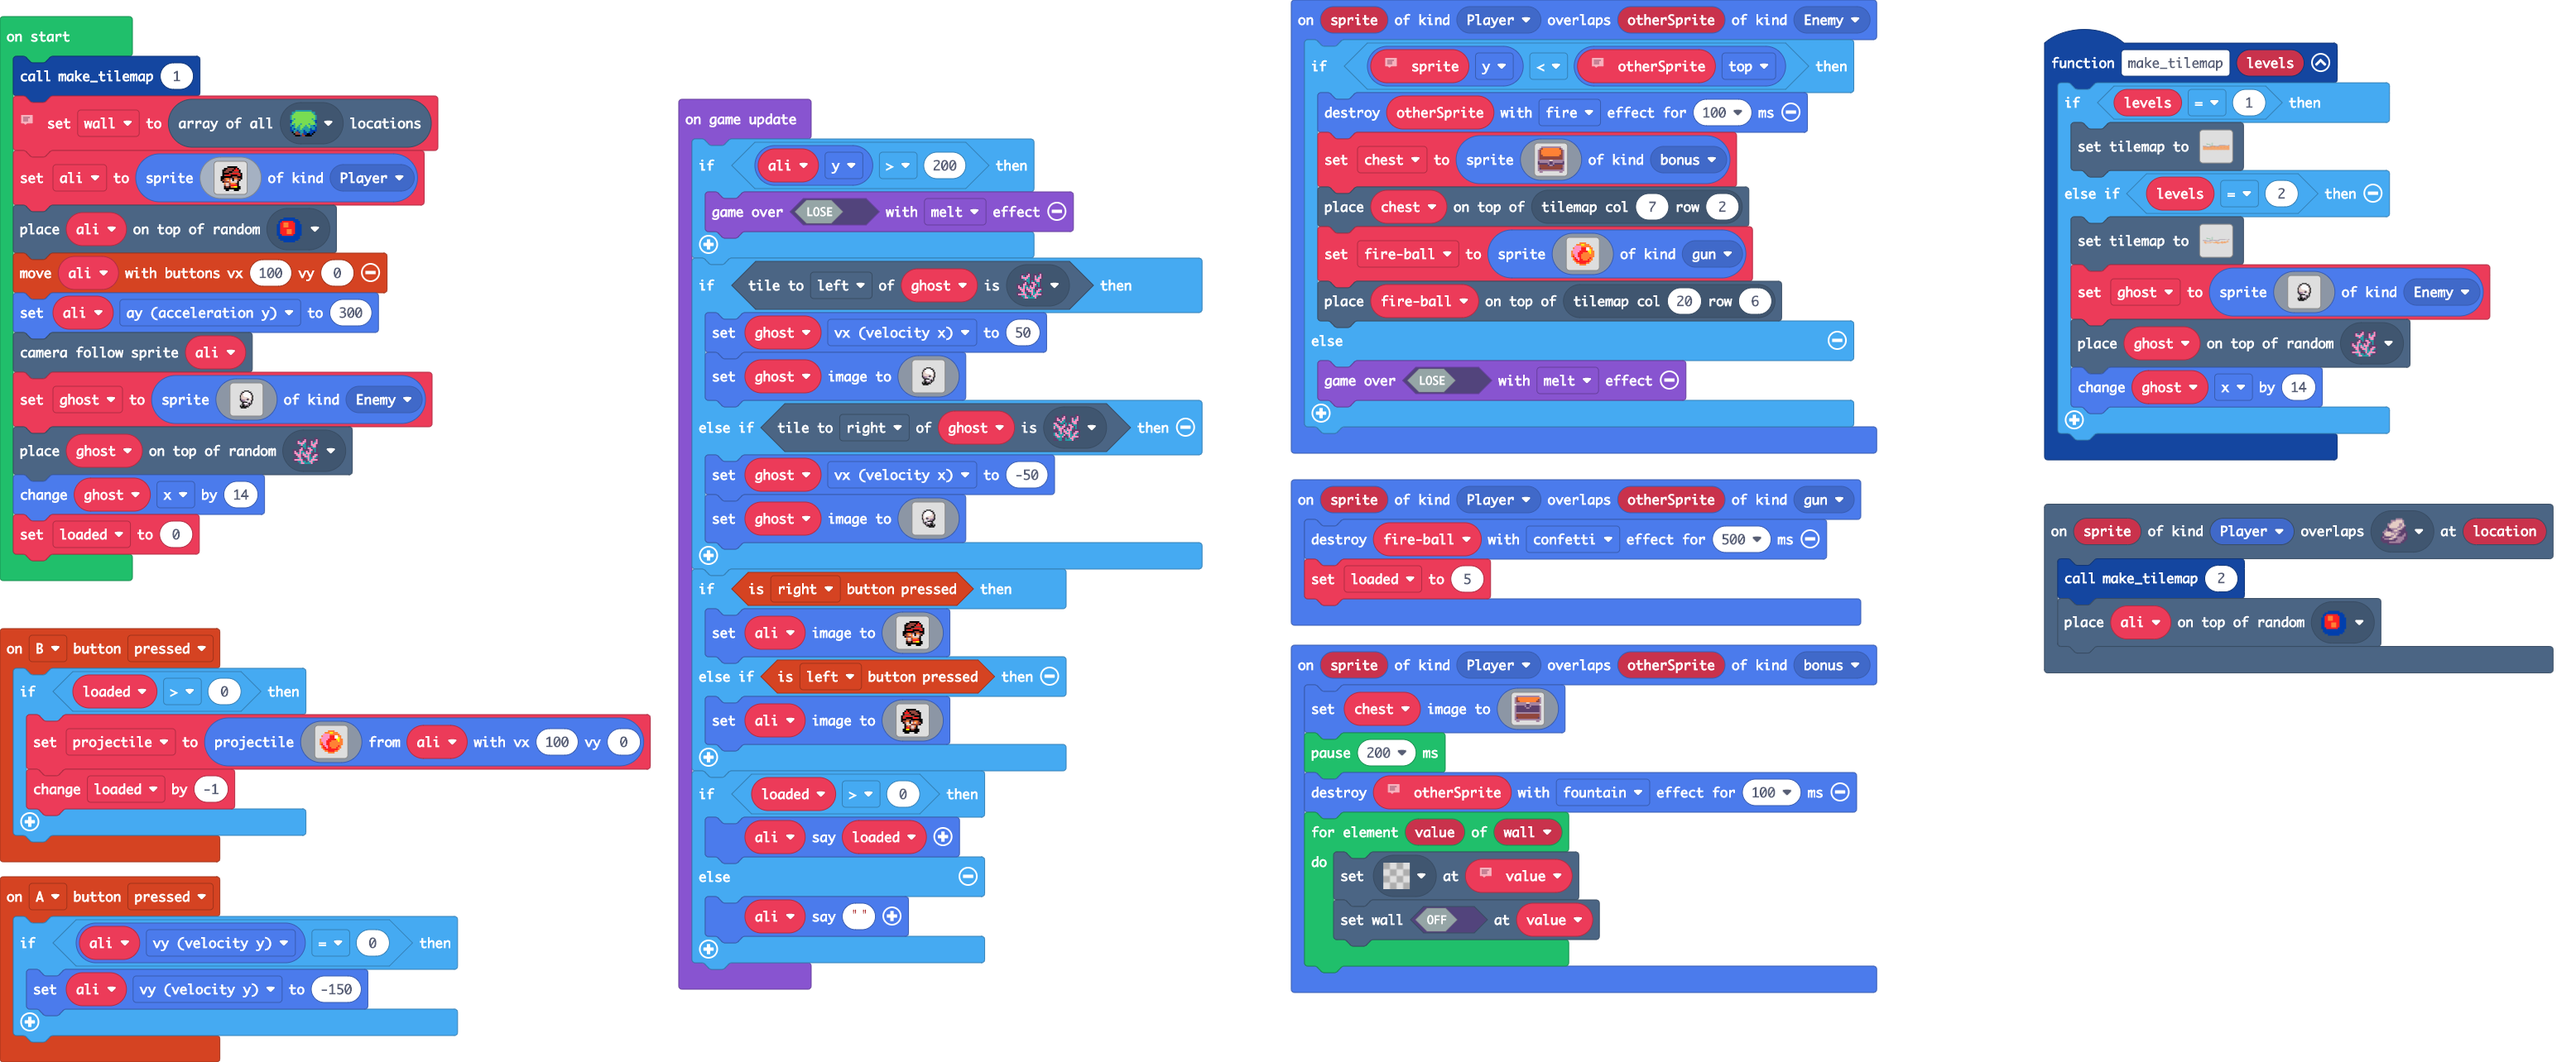
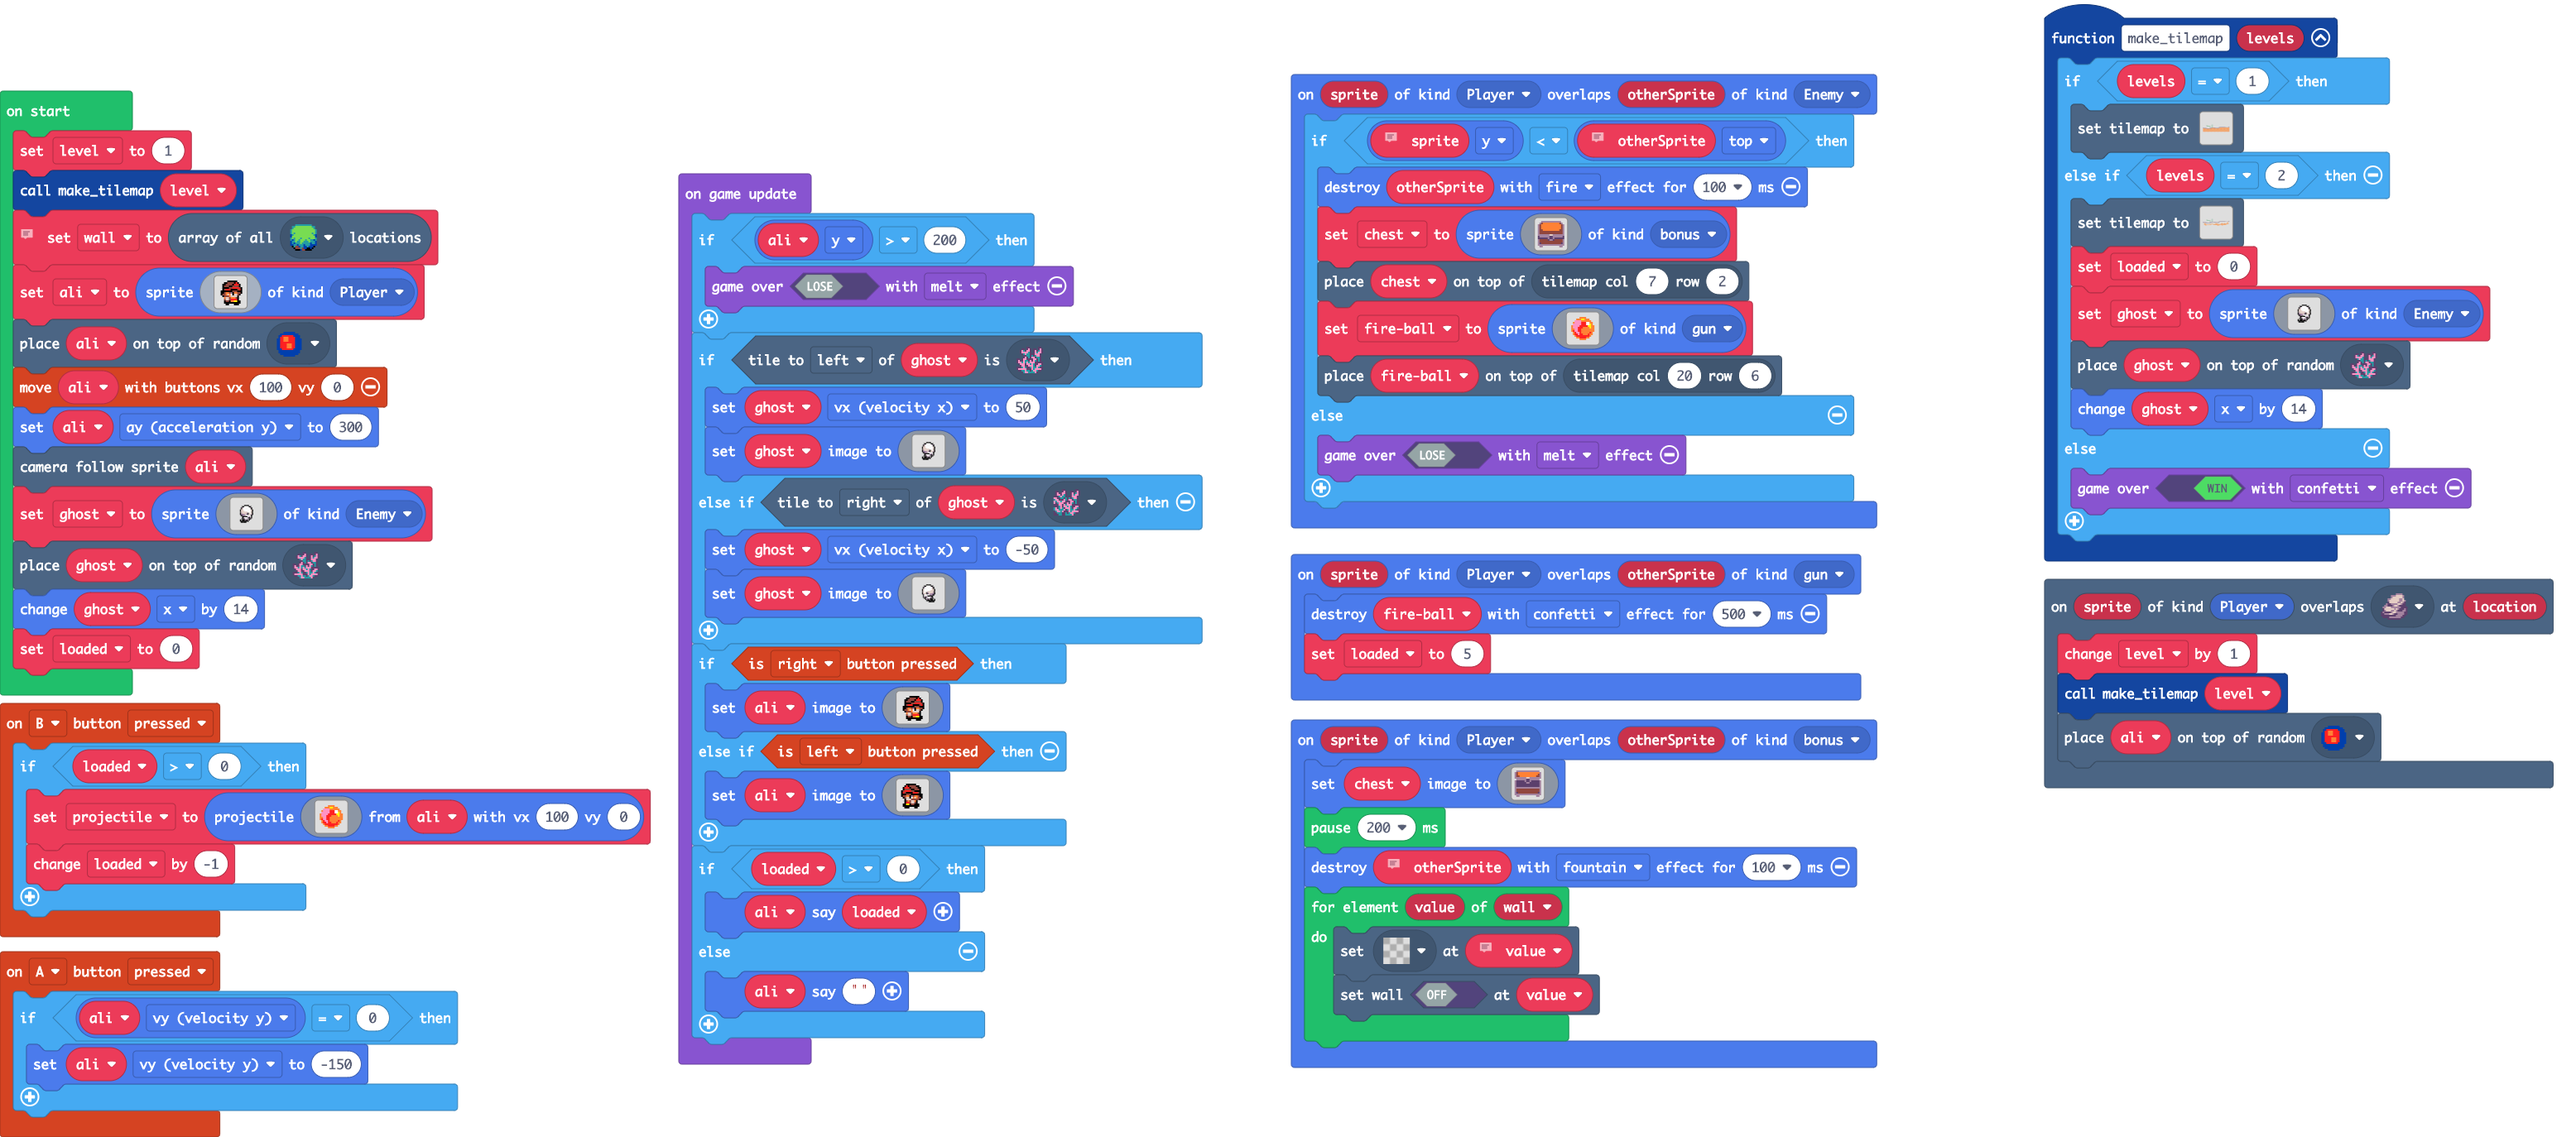
Continued levels and loaded reset per level

diff --git a/main.ts b/main.ts
@@ -3,7 +3,8 @@ namespace SpriteKind {
     export const gun = SpriteKind.create()
 }
 scene.onOverlapTile(SpriteKind.Player, sprites.castle.rock1, function (sprite, location) {
-    make_tilemap(2)
+    level += 1
+    make_tilemap(level)
     tiles.placeOnRandomTile(ali, myTiles.tile1)
 })
 controller.B.onEvent(ControllerButtonEvent.Pressed, function () {
@@ -105,6 +106,7 @@ function make_tilemap (levels: number) {
             ........................................................
             ........................................................
             `, [myTiles.transparency16,sprites.builtin.oceanDepths0,myTiles.tile1,sprites.dungeon.hazardLava0,sprites.dungeon.hazardLava1,sprites.builtin.coral0,sprites.builtin.coral5,sprites.builtin.forestTiles0,sprites.builtin.forestTiles3,sprites.builtin.forestTiles2,sprites.builtin.forestTiles1,sprites.castle.rock1], TileScale.Sixteen))
+        loaded = 0
         ghost = sprites.create(img`
             ........................
             ........................
@@ -133,6 +135,8 @@ function make_tilemap (levels: number) {
             `, SpriteKind.Enemy)
         tiles.placeOnRandomTile(ghost, sprites.builtin.coral0)
         ghost.x += 14
+    } else {
+        game.over(true, effects.confetti)
     }
 }
 sprites.onOverlap(SpriteKind.Player, SpriteKind.Enemy, function (sprite, otherSprite) {
@@ -189,7 +193,9 @@ let loaded = 0
 let ghost: Sprite = null
 let ali: Sprite = null
 let wall: tiles.Location[] = []
-make_tilemap(1)
+let level = 0
+level = 1
+make_tilemap(level)
 // En liste over alle de lokationer af blokke vi gerne vil fjerne efter vi har dræbt vores "ENEMY"
 wall = tiles.getTilesByType(sprites.builtin.forestTiles0)
 ali = sprites.create(img`
